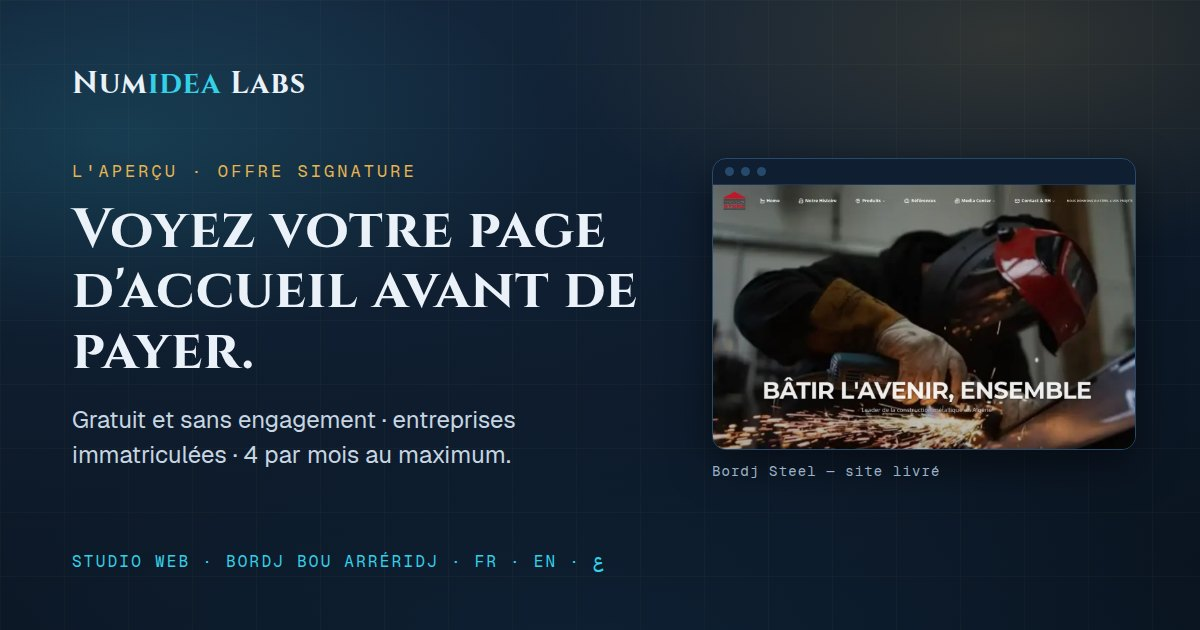
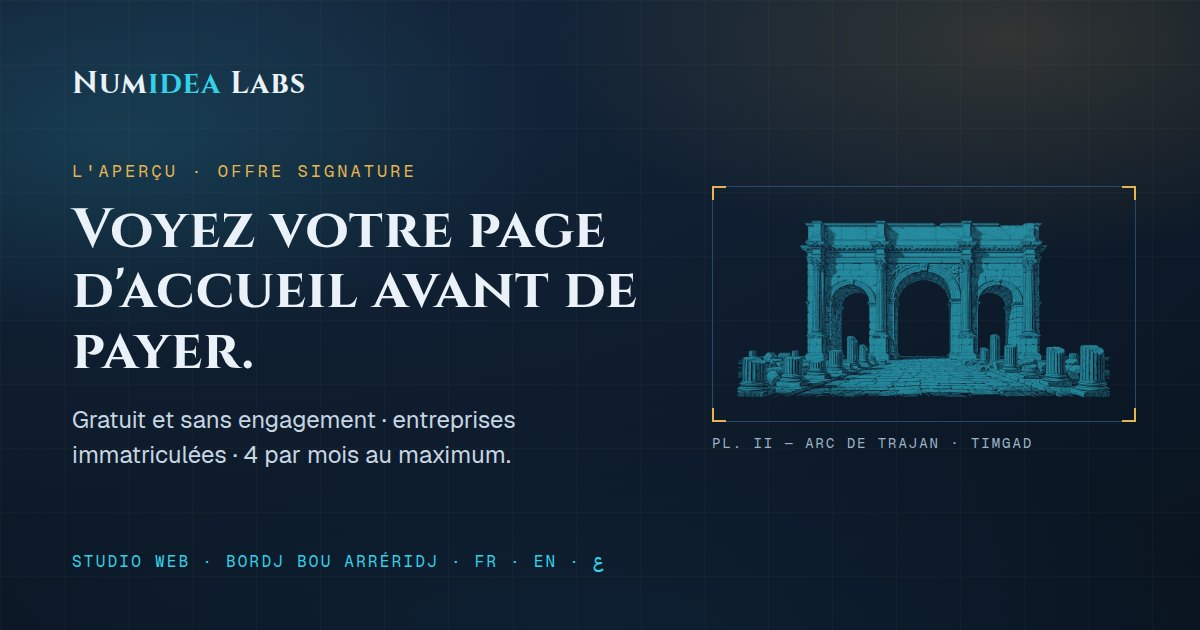
Share card: the site's own engraving instead of a client's site
The owner decided on 2026-10-26 that the link-preview card must show no
client work before any posting. It showed Bordj Steel's site captioned
« site livré », and no client has given written permission to appear in
marketing yet.

scripts/build-og.mjs now draws Plate II, the Arch of Trajan at Timgad, with
its caption from the site. It uses the same luminance mask and theme ink as
the page's plates, and the build refuses a card whose engraving did not load.
The French copy is unchanged, and og:image:alt says what the card now shows.
The card is 83 KB at 1200x630, so check.mjs block 18's dimensions still
match.

Claude-Session: https://claude.ai/code/session_01TKjpKS8z4yQPZgiqdcfyuF

Changed region(s): [[0.5858, 0.2413, 0.9558, 0.754]]

diff --git a/index.html b/index.html
@@ -26,7 +26,7 @@
 <meta property="og:title" content="Numidea Labs — Voyez votre page d'accueil avant de payer">
 <meta property="og:description" content="Studio web à Bordj Bou Arréridj. Pour une entreprise immatriculée, avant tout paiement, on construit la page d'accueil de votre nouveau site, avec votre contenu, en 5 jours ouvrés — 4 par mois au maximum. Sites en français, anglais et arabe.">
 <meta property="og:image" content="https://brvetr4ve1er.github.io/Numidea.tech/assets/og.jpg">
-<meta property="og:image:alt" content="Numidea Labs — L'Aperçu : votre page d'accueil avant de payer, à côté du site livré pour Bordj Steel">
+<meta property="og:image:alt" content="Numidea Labs — L'Aperçu : votre page d'accueil avant de payer, à côté d'une gravure de l'arc de Trajan à Timgad">
 <meta property="og:image:width" content="1200">
 <meta property="og:image:height" content="630">
 <meta name="twitter:card" content="summary_large_image">

diff --git a/IMPROVEMENTS.md b/IMPROVEMENTS.md
@@ -448,6 +448,7 @@ Newest first.
 
 | Date | What happened |
 |---|---|
+| 2026-10-26 | Share card (assets/og.jpg) replaced, by owner decision: it showed a client's site captioned « site livré » with no written permission. It now shows Plate II, the Arch of Trajan at Timgad, one of the site's own engravings; og:image:alt updated to match. 83 KB, 1200×630. |
 | 2026-10-26 | Clear-cut items F1–F9, C6 and C7 shipped to the branch: the phone page goes from 1,223 to 1,016 KB (−17%), desktop from 2,033 to 1,826 KB, 404 from 251 to 195 KB, with no visible change except the fixes named. Then a review of the combined diff (9 minor findings, all fixed: the hint colour, stricter keys checks, EN stack title, FR colon spacing, AR FAQ 2, the Arabic review queue in OWNER-CONTENT §8, and a check.mjs 17 guard against duplicate font files). Not deployed: GitHub Actions still fails every job within seconds (billing). |
 | 2026-10-26 | Full audit; this backlog created. `npm run metrics` added. Measured: the client domain almaflowclim.fr serves a different (Hostinger) site from the build the site links to (owner fact A4). GitHub Actions jobs have failed within seconds since 2026-10-25 16:42 UTC (account billing block). Commits 485bc0c, 79716a2 and 82603b0 are pushed but not deployed; the live site is still 202610251516. |
 
